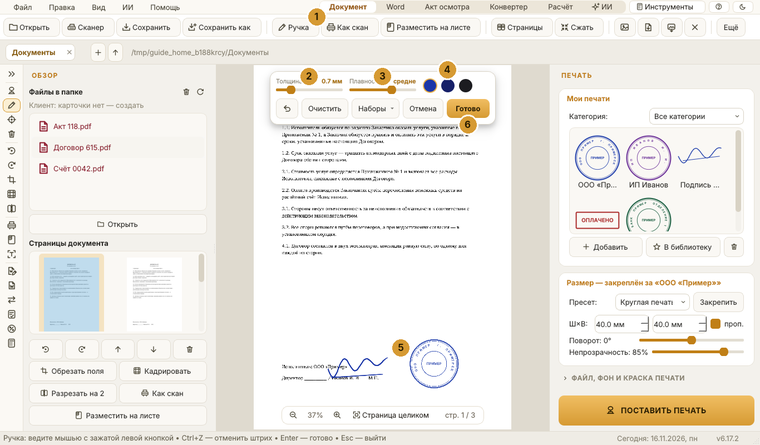
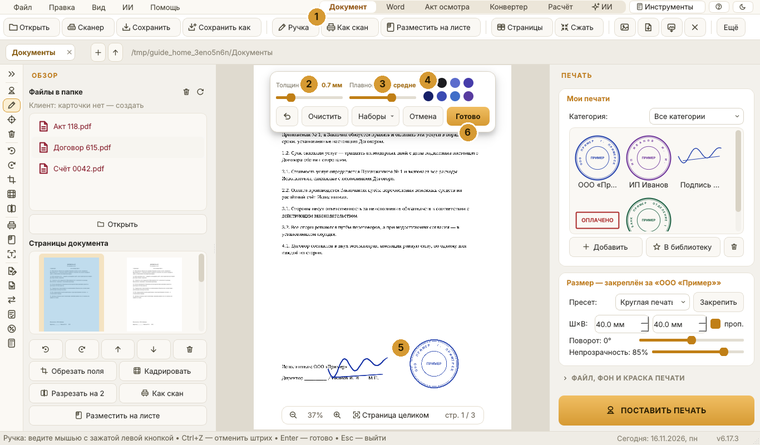
6.17.3: палитра ручки, страница на место по номеру, номера страниц в имени скана
Claude-Session: https://claude.ai/code/session_01S2yJaDiaX6YUxFfadFNC79

Changed region(s): [[0.3632, 0.1169, 0.6658, 0.3213], [0.2724, 0.0876, 0.3632, 0.1461]]

diff --git a/stamp_studio_canon.py b/stamp_studio_canon.py
@@ -593,7 +593,7 @@ QProgressBar::chunk { background: #d69a33; border-radius: 3px; }
 SETTINGS_JSON = os.path.join(LIB_DIR, "settings.json")
 
 # ---------------------------------------------------------------- версия и обновления
-APP_VERSION = "6.17.2"
+APP_VERSION = "6.17.3"
 EDITION = "canon"                 # main — основная, canon — для сканеров Canon
 APP_TITLE = "Stamp Studio" + (" Canon" if EDITION == "canon" else "")
 GITHUB_URL = "https://github.com/alegawhats-del/StampStudio"
@@ -1180,7 +1180,10 @@ class MascotOverlay(QLabel):
 #  Ручка: подпись рисуется мышью прямо на странице
 # ======================================================================
 
-PEN_INKS = [("Синяя", (27, 54, 168)), ("Тёмно-синяя", (22, 32, 104)), ("Чёрная", (28, 28, 32))]
+PEN_INKS = [("Синяя", (27, 54, 168)), ("Тёмно-синяя", (22, 32, 104)), ("Чёрная", (28, 28, 32)),
+            # новые оттенки добавляются в конец: сохранённые наборы помнят пасту по номеру
+            ("Синяя шариковая", (58, 74, 178)), ("Светло-синяя", (92, 108, 204)), ("Голубая", (64, 110, 200)),
+            ("Сине-фиолетовая", (70, 60, 170)), ("Фиолетовая", (88, 60, 160))]
 
 
 def pen_dense_points(pts):
@@ -1377,21 +1380,21 @@ class PenBar(QFrame):
 
         self.ink_index = int(st.get("ink", 0)) % len(PEN_INKS)
         self.ink_btns = []
-        inks = QHBoxLayout()
-        inks.setSpacing(6)
+        inks = QGridLayout()                      # два ряда кружков: палитра шире, панель — нет
+        inks.setSpacing(4)
         for i, (name, rgb) in enumerate(PEN_INKS):
             b = QPushButton()
             b.setCheckable(True)
-            b.setFixedSize(26, 26)
+            b.setFixedSize(20, 20)
             b.setToolTip(f"Цвет ручки: {name.lower()}")
             b.setCursor(Qt.PointingHandCursor)
             b.setStyleSheet(
                 "QPushButton { background: rgb(%d,%d,%d); border: 2px solid transparent; "
-                "border-radius: 13px; min-height: 0; padding: 0; }"
+                "border-radius: 10px; min-height: 0; padding: 0; }"
                 "QPushButton:checked { border: 2px solid #e8b04b; }" % rgb)
             b.clicked.connect(lambda _=False, i=i: self._pick_ink(i))
             self.ink_btns.append(b)
-            inks.addWidget(b)
+            inks.addWidget(b, i % 2, i // 2)
         lay.addLayout(inks)
         lay.addStretch(1)
 
@@ -8379,6 +8382,19 @@ def split_issued(text):
 def join_issued(date, by):
     """Дата выдачи и «кем выдан» одной строкой — как пишут в реквизитах."""
     return " ".join(x for x in (str(date or "").strip(), str(by or "").strip()) if x)
+
+
+def pages_label(pages):
+    """Номера страниц (с нуля) → «1-3,5»."""
+    nums = sorted(set(int(p) + 1 for p in pages))
+    out, i = [], 0
+    while i < len(nums):
+        j = i
+        while j + 1 < len(nums) and nums[j + 1] == nums[j] + 1:
+            j += 1
+        out.append(str(nums[i]) if i == j else f"{nums[i]}-{nums[j]}")
+        i = j + 1
+    return ",".join(out)
 
 
 def phone_mask(text):
@@ -15851,6 +15867,8 @@ class MainWindow(QMainWindow):
         lay.addWidget(cap_pages)
 
         self.page_list = PageGrid()
+        self.page_list.setContextMenuPolicy(Qt.CustomContextMenu)
+        self.page_list.customContextMenuRequested.connect(self._page_menu)
         self.page_list.setViewMode(QListWidget.IconMode)
         self.page_list.setIconSize(QSize(104, 140))
         self.page_list.setGridSize(QSize(140, 170))
@@ -16597,9 +16615,10 @@ class MainWindow(QMainWindow):
         src.close()
         if o.get("target") == "new":
             keep = sorted(set(i for i in pages if 0 <= i < new.page_count))
-            if keep and len(keep) < new.page_count:
+            part = bool(keep) and len(keep) < new.page_count
+            if part:
                 new.select(keep)                      # в новый файл — только выбранные страницы
-            self._scan_look_save_new(new, len(keep) or len(pages))
+            self._scan_look_save_new(new, len(keep) or len(pages), pages=keep if part else None)
             return
         n = self.doc.page_count
         self.doc.insert_pdf(new)
@@ -16617,15 +16636,18 @@ class MainWindow(QMainWindow):
         self.show_toast(f"✔  Готово — страниц «как скан»: {len(pages)}. Сохраните (Ctrl+S)")
 
 
-    def _scan_look_save_new(self, new, n_pages, suffix="скан"):
-        """Сохранить «скан» отдельным файлом; открытый документ и печати не трогаем."""
+    def _scan_look_save_new(self, new, n_pages, suffix="скан", pages=None):
+        """Сохранить «скан» отдельным файлом; открытый документ и печати не трогаем.
+        pages — номера страниц (с нуля), если в файл ушла только часть: они встают в начало имени."""
         base = os.path.splitext(os.path.basename(str(self.doc_path or "документ")))[0]
         base = base.replace(" (из изображений)", "").replace(" (из Word)", "")
+        if pages:
+            base = f"стр. {pages_label(pages)} {base}"
         folder = self.current_dir()
         if self.doc_path and os.path.isfile(str(self.doc_path)):
             folder = os.path.dirname(str(self.doc_path))
         name = f"{base} {suffix}.pdf"
-        if act_doc_name(base) and not os.path.exists(os.path.join(folder, f"{base}.pdf")):
+        if not pages and act_doc_name(base) and not os.path.exists(os.path.join(folder, f"{base}.pdf")):
             name = f"{base}.pdf"                   # акт осмотра: имя то же, что у документа
         k = 2
         while os.path.exists(os.path.join(folder, name)):
@@ -17024,6 +17046,43 @@ class MainWindow(QMainWindow):
         order = [self.page_list.item(i).data(Qt.UserRole)
                  for i in range(self.page_list.count())]
         self.apply_page_order(order)
+
+    def move_page_to(self, row=None, target=None):
+        """Поставить страницу сразу на нужное место: номер вводится цифрой."""
+        if self.doc is None:
+            return
+        n = self.doc.page_count
+        i = self.page_list.currentRow() if row is None else row
+        if i < 0 or n < 2:
+            return
+        if target is None:
+            target, ok = QInputDialog.getInt(self, "Переместить страницу", f"Страница {i + 1}. На какое место поставить (1–{n})?",
+                                             i + 1, 1, n)
+            if not ok:
+                return
+        j = max(0, min(n - 1, int(target) - 1))
+        if j == i:
+            return
+        order = list(range(n))
+        order.insert(j, order.pop(i))
+        self.current_page = i
+        self.apply_page_order(order)
+        self.page_list.setCurrentRow(j)
+
+    def _page_menu(self, pos):
+        it = self.page_list.itemAt(pos)
+        if it is None or self.doc is None:
+            return
+        row = self.page_list.row(it)
+        self.page_list.setCurrentRow(row)
+        m = QMenu(self)
+        a = m.addAction("Переместить на место №…", lambda: self.move_page_to(row))
+        a.setEnabled(self.doc.page_count > 1)
+        m.addAction("Выше", lambda: self.move_page(-1)).setEnabled(row > 0)
+        m.addAction("Ниже", lambda: self.move_page(1)).setEnabled(row < self.doc.page_count - 1)
+        m.addSeparator()
+        m.addAction("Удалить страницу", self.delete_page)
+        m.exec(self.page_list.viewport().mapToGlobal(pos))
 
     def move_page(self, delta):
         if self.doc is None:

diff --git a/stamp_studio.py b/stamp_studio.py
@@ -593,7 +593,7 @@ QProgressBar::chunk { background: #d69a33; border-radius: 3px; }
 SETTINGS_JSON = os.path.join(LIB_DIR, "settings.json")
 
 # ---------------------------------------------------------------- версия и обновления
-APP_VERSION = "6.17.2"
+APP_VERSION = "6.17.3"
 EDITION = "main"                 # main — основная, canon — для сканеров Canon
 APP_TITLE = "Stamp Studio" + (" Canon" if EDITION == "canon" else "")
 GITHUB_URL = "https://github.com/alegawhats-del/StampStudio"
@@ -1180,7 +1180,10 @@ class MascotOverlay(QLabel):
 #  Ручка: подпись рисуется мышью прямо на странице
 # ======================================================================
 
-PEN_INKS = [("Синяя", (27, 54, 168)), ("Тёмно-синяя", (22, 32, 104)), ("Чёрная", (28, 28, 32))]
+PEN_INKS = [("Синяя", (27, 54, 168)), ("Тёмно-синяя", (22, 32, 104)), ("Чёрная", (28, 28, 32)),
+            # новые оттенки добавляются в конец: сохранённые наборы помнят пасту по номеру
+            ("Синяя шариковая", (58, 74, 178)), ("Светло-синяя", (92, 108, 204)), ("Голубая", (64, 110, 200)),
+            ("Сине-фиолетовая", (70, 60, 170)), ("Фиолетовая", (88, 60, 160))]
 
 
 def pen_dense_points(pts):
@@ -1377,21 +1380,21 @@ class PenBar(QFrame):
 
         self.ink_index = int(st.get("ink", 0)) % len(PEN_INKS)
         self.ink_btns = []
-        inks = QHBoxLayout()
-        inks.setSpacing(6)
+        inks = QGridLayout()                      # два ряда кружков: палитра шире, панель — нет
+        inks.setSpacing(4)
         for i, (name, rgb) in enumerate(PEN_INKS):
             b = QPushButton()
             b.setCheckable(True)
-            b.setFixedSize(26, 26)
+            b.setFixedSize(20, 20)
             b.setToolTip(f"Цвет ручки: {name.lower()}")
             b.setCursor(Qt.PointingHandCursor)
             b.setStyleSheet(
                 "QPushButton { background: rgb(%d,%d,%d); border: 2px solid transparent; "
-                "border-radius: 13px; min-height: 0; padding: 0; }"
+                "border-radius: 10px; min-height: 0; padding: 0; }"
                 "QPushButton:checked { border: 2px solid #e8b04b; }" % rgb)
             b.clicked.connect(lambda _=False, i=i: self._pick_ink(i))
             self.ink_btns.append(b)
-            inks.addWidget(b)
+            inks.addWidget(b, i % 2, i // 2)
         lay.addLayout(inks)
         lay.addStretch(1)
 
@@ -8380,6 +8383,19 @@ def split_issued(text):
 def join_issued(date, by):
     """Дата выдачи и «кем выдан» одной строкой — как пишут в реквизитах."""
     return " ".join(x for x in (str(date or "").strip(), str(by or "").strip()) if x)
+
+
+def pages_label(pages):
+    """Номера страниц (с нуля) → «1-3,5»."""
+    nums = sorted(set(int(p) + 1 for p in pages))
+    out, i = [], 0
+    while i < len(nums):
+        j = i
+        while j + 1 < len(nums) and nums[j + 1] == nums[j] + 1:
+            j += 1
+        out.append(str(nums[i]) if i == j else f"{nums[i]}-{nums[j]}")
+        i = j + 1
+    return ",".join(out)
 
 
 def phone_mask(text):
@@ -15852,6 +15868,8 @@ class MainWindow(QMainWindow):
         lay.addWidget(cap_pages)
 
         self.page_list = PageGrid()
+        self.page_list.setContextMenuPolicy(Qt.CustomContextMenu)
+        self.page_list.customContextMenuRequested.connect(self._page_menu)
         self.page_list.setViewMode(QListWidget.IconMode)
         self.page_list.setIconSize(QSize(104, 140))
         self.page_list.setGridSize(QSize(140, 170))
@@ -16598,9 +16616,10 @@ class MainWindow(QMainWindow):
         src.close()
         if o.get("target") == "new":
             keep = sorted(set(i for i in pages if 0 <= i < new.page_count))
-            if keep and len(keep) < new.page_count:
+            part = bool(keep) and len(keep) < new.page_count
+            if part:
                 new.select(keep)                      # в новый файл — только выбранные страницы
-            self._scan_look_save_new(new, len(keep) or len(pages))
+            self._scan_look_save_new(new, len(keep) or len(pages), pages=keep if part else None)
             return
         n = self.doc.page_count
         self.doc.insert_pdf(new)
@@ -16618,15 +16637,18 @@ class MainWindow(QMainWindow):
         self.show_toast(f"✔  Готово — страниц «как скан»: {len(pages)}. Сохраните (Ctrl+S)")
 
 
-    def _scan_look_save_new(self, new, n_pages, suffix="скан"):
-        """Сохранить «скан» отдельным файлом; открытый документ и печати не трогаем."""
+    def _scan_look_save_new(self, new, n_pages, suffix="скан", pages=None):
+        """Сохранить «скан» отдельным файлом; открытый документ и печати не трогаем.
+        pages — номера страниц (с нуля), если в файл ушла только часть: они встают в начало имени."""
         base = os.path.splitext(os.path.basename(str(self.doc_path or "документ")))[0]
         base = base.replace(" (из изображений)", "").replace(" (из Word)", "")
+        if pages:
+            base = f"стр. {pages_label(pages)} {base}"
         folder = self.current_dir()
         if self.doc_path and os.path.isfile(str(self.doc_path)):
             folder = os.path.dirname(str(self.doc_path))
         name = f"{base} {suffix}.pdf"
-        if act_doc_name(base) and not os.path.exists(os.path.join(folder, f"{base}.pdf")):
+        if not pages and act_doc_name(base) and not os.path.exists(os.path.join(folder, f"{base}.pdf")):
             name = f"{base}.pdf"                   # акт осмотра: имя то же, что у документа
         k = 2
         while os.path.exists(os.path.join(folder, name)):
@@ -17025,6 +17047,43 @@ class MainWindow(QMainWindow):
         order = [self.page_list.item(i).data(Qt.UserRole)
                  for i in range(self.page_list.count())]
         self.apply_page_order(order)
+
+    def move_page_to(self, row=None, target=None):
+        """Поставить страницу сразу на нужное место: номер вводится цифрой."""
+        if self.doc is None:
+            return
+        n = self.doc.page_count
+        i = self.page_list.currentRow() if row is None else row
+        if i < 0 or n < 2:
+            return
+        if target is None:
+            target, ok = QInputDialog.getInt(self, "Переместить страницу", f"Страница {i + 1}. На какое место поставить (1–{n})?",
+                                             i + 1, 1, n)
+            if not ok:
+                return
+        j = max(0, min(n - 1, int(target) - 1))
+        if j == i:
+            return
+        order = list(range(n))
+        order.insert(j, order.pop(i))
+        self.current_page = i
+        self.apply_page_order(order)
+        self.page_list.setCurrentRow(j)
+
+    def _page_menu(self, pos):
+        it = self.page_list.itemAt(pos)
+        if it is None or self.doc is None:
+            return
+        row = self.page_list.row(it)
+        self.page_list.setCurrentRow(row)
+        m = QMenu(self)
+        a = m.addAction("Переместить на место №…", lambda: self.move_page_to(row))
+        a.setEnabled(self.doc.page_count > 1)
+        m.addAction("Выше", lambda: self.move_page(-1)).setEnabled(row > 0)
+        m.addAction("Ниже", lambda: self.move_page(1)).setEnabled(row < self.doc.page_count - 1)
+        m.addSeparator()
+        m.addAction("Удалить страницу", self.delete_page)
+        m.exec(self.page_list.viewport().mapToGlobal(pos))
 
     def move_page(self, delta):
         if self.doc is None:

diff --git a/NOTES.md b/NOTES.md
@@ -1,3 +1,6 @@
+• Страницы: правая кнопка по странице → «Переместить на место №…» — номер вводится цифрой
+• «Как скан» части страниц: номера страниц встают в начало имени файла («стр. 1-3 Договор скан.pdf»)
+• Ручка: палитра паст расширена — к синей, тёмно-синей и чёрной добавлены синяя шариковая, светло-синяя, голубая, сине-фиолетовая и фиолетовая
 • Мои печати: значки крупные, во всю клетку, три в ряд
 • Редактор Word: длинные подписи полей кончаются многоточием, текст в поле не упирается в рамку, колонка полей шире
 • Редактор Word: поля паспорта подписаны «Паспорт: дата выдачи» и «Паспорт: кем выдан»; «Выдан:» в реквизитах собирается из них сам
